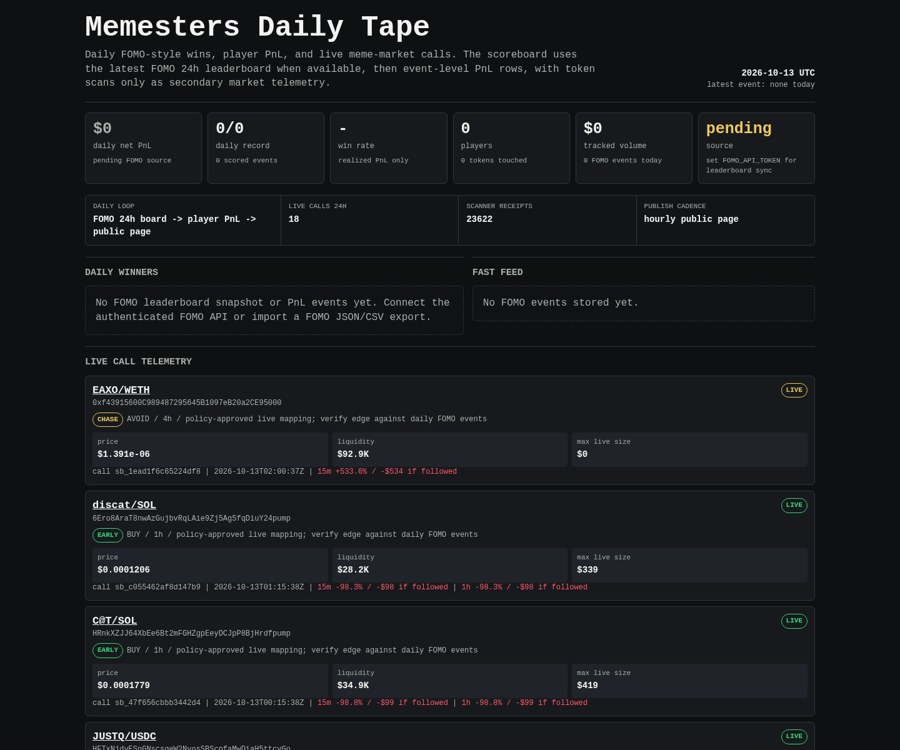
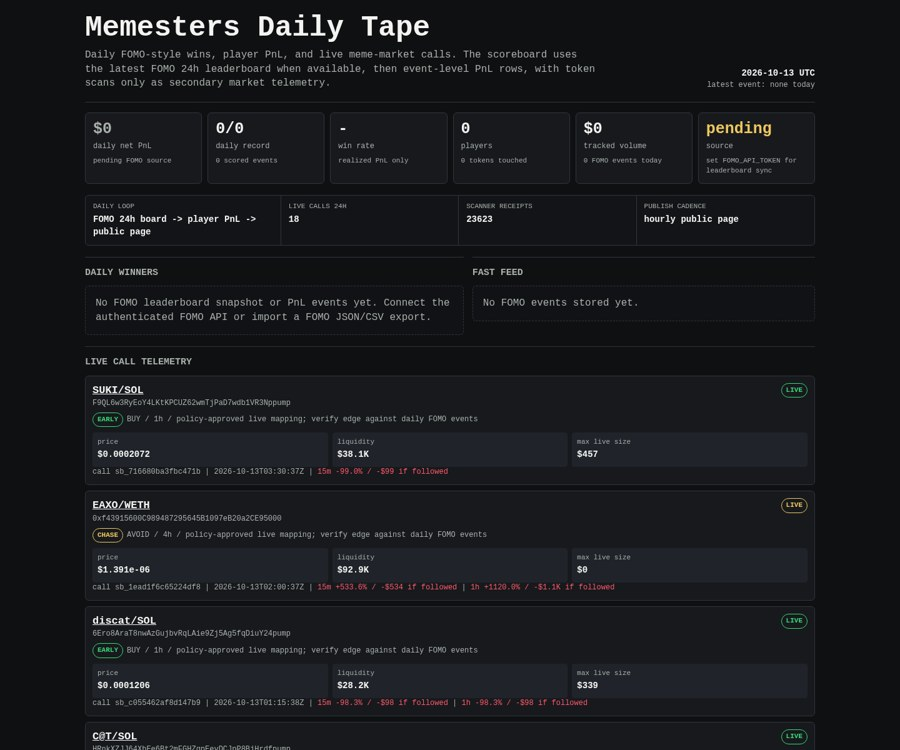
Update Memesters scoreboard

diff --git a/memesters/index.html b/memesters/index.html
@@ -150,7 +150,7 @@
     <div class="rail" aria-label="live operating loop">
       <div><span>daily loop</span><b>FOMO 24h board -> player PnL -> public page</b></div>
       <div><span>live calls 24h</span><b>18</b></div>
-      <div><span>scanner receipts</span><b>23622</b></div>
+      <div><span>scanner receipts</span><b>23623</b></div>
       <div><span>publish cadence</span><b>hourly public page</b></div>
     </div>
 
@@ -171,6 +171,27 @@
     <article class="receipt">
       <div class="receipt-head">
         <div>
+          <div class="pair"><a href="https://dexscreener.com/solana/g746vqac2pbjzayy8zcngb4o3chdmz3kyxtwjxqapg8w">SUKI/SOL</a></div>
+          <div class="addr">F9QL6w3RyEoY4LKtKPCUZ62wmTjPaD7wdb1VR3Nppump</div>
+          <div class="addr policy-line">
+            <span class="badge early">EARLY</span>
+            <span>BUY / 1h / policy-approved live mapping; verify edge against daily FOMO events</span>
+          </div>
+        </div>
+        <span class="badge early">LIVE</span>
+      </div>
+      <div class="receipt-grid">
+        <div class="kv"><span>price</span><b>$0.0002072</b></div>
+        <div class="kv"><span>liquidity</span><b>$38.1K</b></div>
+        <div class="kv"><span>max live size</span><b>$457</b></div>
+      </div>
+      <div class="outcomes">call sb_716680ba3fbc471b | 2026-10-13T03:30:37Z | <span class="negative">15m -99.0% / -$99 if followed</span></div>
+    </article>
+    
+
+    <article class="receipt">
+      <div class="receipt-head">
+        <div>
           <div class="pair"><a href="https://dexscreener.com/robinhood/0x77a2f375a10b017436e34bd523ca2b3827459f425190d6c7f36da126a1b796fb">EAXO/WETH</a></div>
           <div class="addr">0xf43915600C989487295645B1097eB20a2CE95000</div>
           <div class="addr policy-line">
@@ -185,7 +206,7 @@
         <div class="kv"><span>liquidity</span><b>$92.9K</b></div>
         <div class="kv"><span>max live size</span><b>$0</b></div>
       </div>
-      <div class="outcomes">call sb_1ead1f6c65224df8 | 2026-10-13T02:00:37Z | <span class="negative">15m +533.6% / -$534 if followed</span></div>
+      <div class="outcomes">call sb_1ead1f6c65224df8 | 2026-10-13T02:00:37Z | <span class="negative">15m +533.6% / -$534 if followed</span> | <span class="negative">1h +1120.0% / -$1.1K if followed</span></div>
     </article>
     
 
@@ -354,27 +375,6 @@
         <div class="kv"><span>max live size</span><b>$25</b></div>
       </div>
       <div class="outcomes">call sb_cf5981b84b7d4c77 | 2026-10-12T14:30:38Z | <span class="positive">15m +0.4% / +$0 if followed</span> | <span class="positive">1h +5.3% / +$5 if followed</span> | <span class="negative">4h -8.3% / -$8 if followed</span></div>
-    </article>
-    
-
-    <article class="receipt">
-      <div class="receipt-head">
-        <div>
-          <div class="pair"><a href="https://dexscreener.com/ethereum/0xbe0cba8c7a14c6d22000ffbb0acfc1778b2e2198c07527dd6f428ac1eff5cb42">PRUNED/WETH</a></div>
-          <div class="addr">0x3169BFBE98225B08C0456A6C1B40ED486480B56e</div>
-          <div class="addr policy-line">
-            <span class="badge chase">CHASE</span>
-            <span>AVOID / 4h / policy-approved live mapping; verify edge against daily FOMO events</span>
-          </div>
-        </div>
-        <span class="badge chase">LIVE</span>
-      </div>
-      <div class="receipt-grid">
-        <div class="kv"><span>price</span><b>$2.133e-05</b></div>
-        <div class="kv"><span>liquidity</span><b>$14.4K</b></div>
-        <div class="kv"><span>max live size</span><b>$0</b></div>
-      </div>
-      <div class="outcomes">call sb_3787cc2f4f5d44fe | 2026-10-12T13:45:34Z | <span class="negative">15m +83.1% / -$83 if followed</span> | <span class="positive">1h -4.4% / +$4 if followed</span> | <span class="positive">4h -73.6% / +$74 if followed</span></div>
     </article>
     
     </section>
